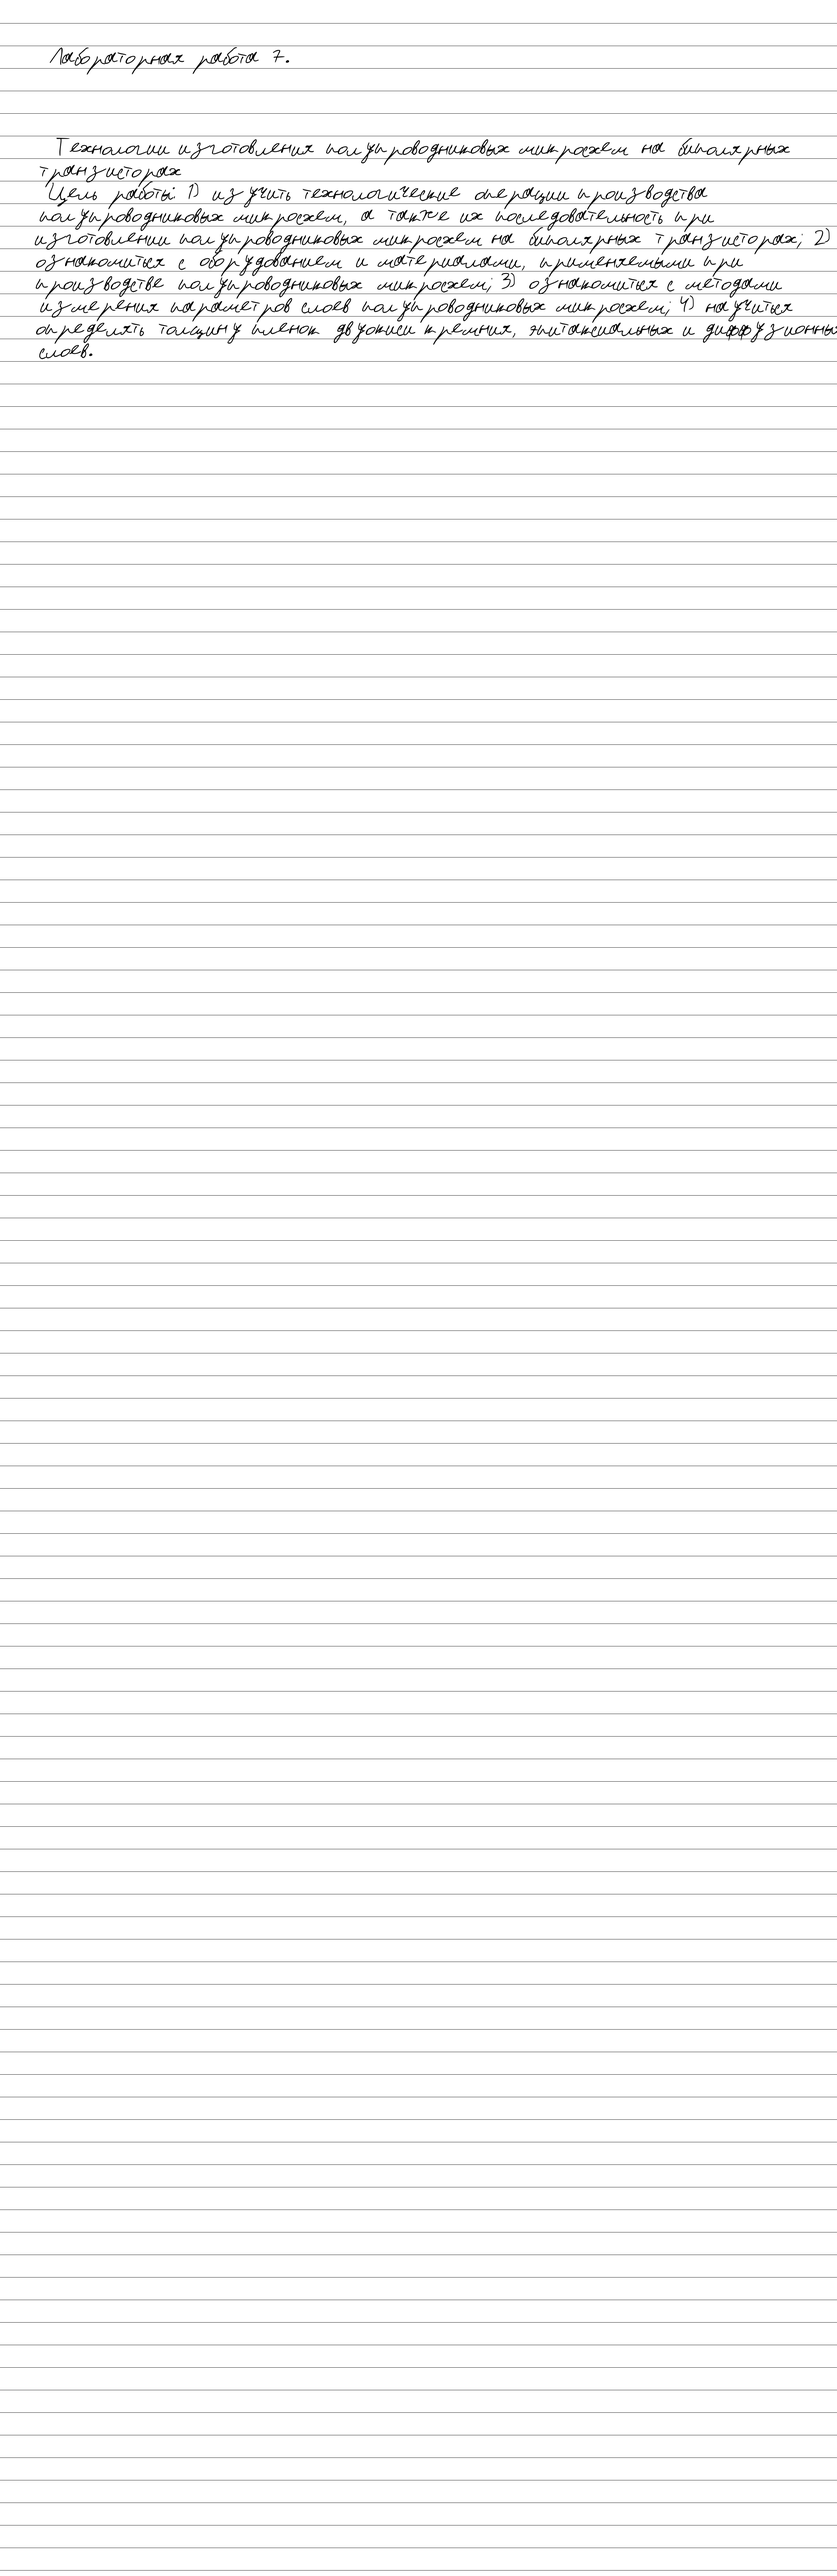
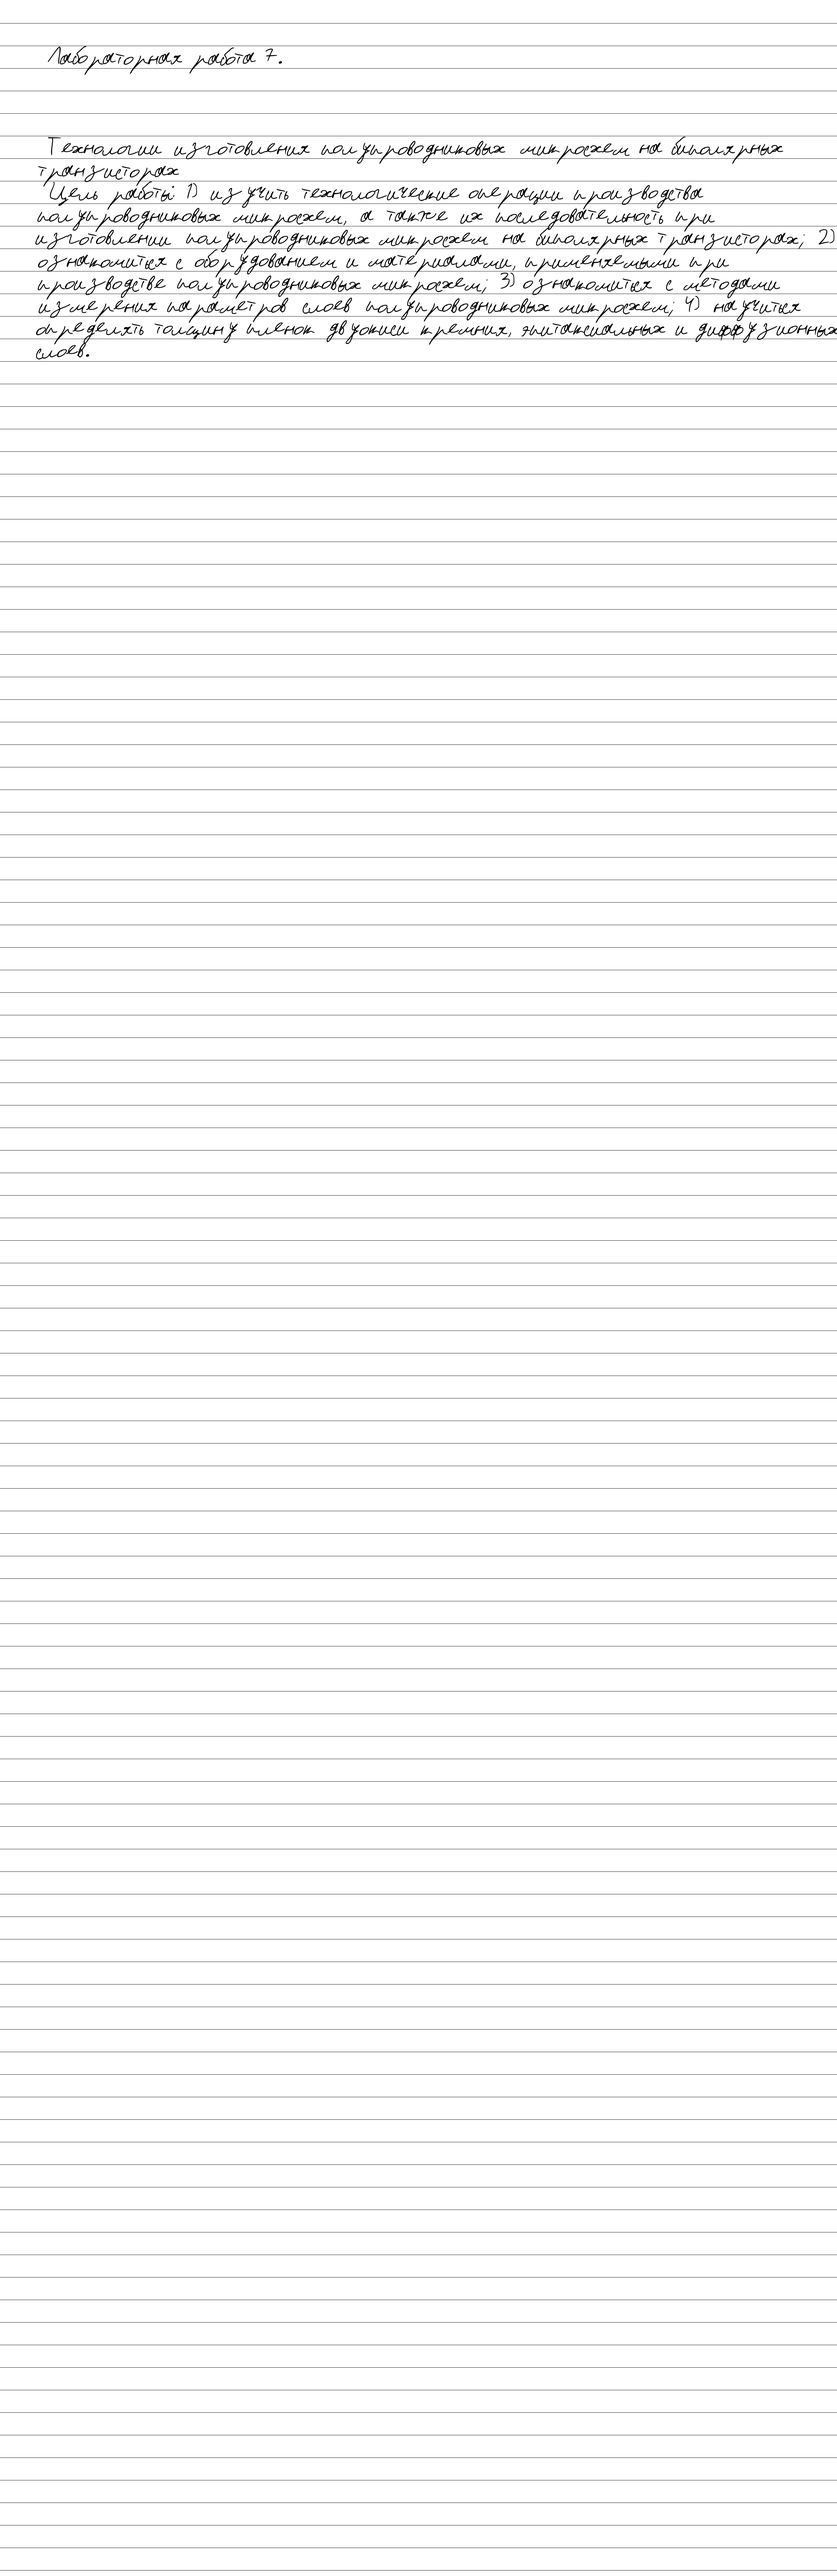
v2.3
Добавлена настройка видимости линий

Changed region(s): [[0.0312, 0.0625, 0.9346, 0.1562]]

diff --git a/handwriter/main.py b/handwriter/main.py
@@ -15,12 +15,16 @@ with open('config_main.json', 'r') as f:
     y_char_to_line_offset = config_main.get('y_char_to_line_offset', 0)
     font_spacing = config_main.get('font_spacing', 0)
     font_size = config_main.get('font_size', 0)
-    rondom_font = bool(config_main.get('rondom_font', "False"))
+    rondom_font = config_main.get('rondom_font', "False")
+    line_color_bool = config_main.get('line', "False")
     # define the default spacing before and after each character
     default_space_before = 0
     default_space_after = 0
 
-line_color = (0, 0, 0)  # цвет линий
+if line_color_bool == "True":
+    line_color = (0, 0, 0)  # цвет линий
+else:
+    line_color = (255, 255, 255)
 
 # define the font
 font_path = 'handfont-rus.ttf'
@@ -30,7 +34,7 @@ font_main_list.append(font_main)
 font_path_add = 'handfont-rus-add.ttf'
 font_add = ImageFont.truetype(font_path_add, font_size)
 
-if rondom_font:
+if rondom_font == "True":
     font_path2 = 'handfont-rus2.ttf'
     font_main2 = ImageFont.truetype(font_path, font_size)
     font_main_list.append(font_main2)
